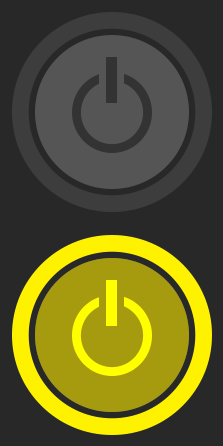
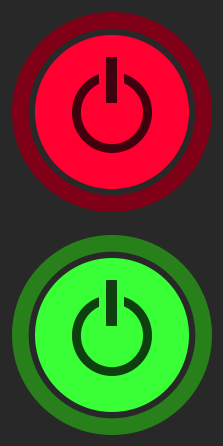
Updated UI graphics

diff --git a/Transcriber.cpp b/Transcriber.cpp
@@ -25,8 +25,9 @@ Transcriber::Transcriber(IPlugInstanceInfo instanceInfo)
 
   // Knobs and switch
   IBitmap tGuiBmp = pGraphics->LoadIBitmap(KNOB_ID, KNOB_FN, kKnobFrames);
-  ptCutOffFrequencyControl = new IKnobMultiControl(this, kCutOffFrequencyX, kCutOffFrequencyY, kCutOffFrequency, &tGuiBmp);
   ptGainControl = new IKnobMultiControl(this, kGainX, kGainY, kGain, &tGuiBmp);
+  tGuiBmp = pGraphics->LoadIBitmap(KNOB_FILTER_ID, KNOB_FILTER_FN, kKnobFrames);
+  ptCutOffFrequencyControl = new IKnobMultiControl(this, kCutOffFrequencyX, kCutOffFrequencyY, kCutOffFrequency, &tGuiBmp);
   tGuiBmp = pGraphics->LoadIBitmap(SWITCH_ID, SWITCH_FN, kSwitchFrames);
   ptSwitchControl = new ISwitchControl(this, kSwitchX, kSwitchY, kSwitchFrames, &tGuiBmp);
   pGraphics->AttachControl(ptCutOffFrequencyControl);

diff --git a/resource.h b/resource.h
@@ -57,9 +57,11 @@ instrument determined by PLUG _IS _INST
 #define KNOB_ID 101
 #define BACKGROUND_ID 102
 #define SWITCH_ID 103
+#define KNOB_FILTER_ID 104
 
 // Image resource locations for this plug.
 #define KNOB_FN "resources/img/FlatGreyYellowKnob.png"
+#define KNOB_FILTER_FN "resources/img/FlatGreyTealKnob.png"
 #define BACKGROUND_FN "resources/img/TranscriberBG.png"
 #define SWITCH_FN "resources/img/Switch.png"
 
